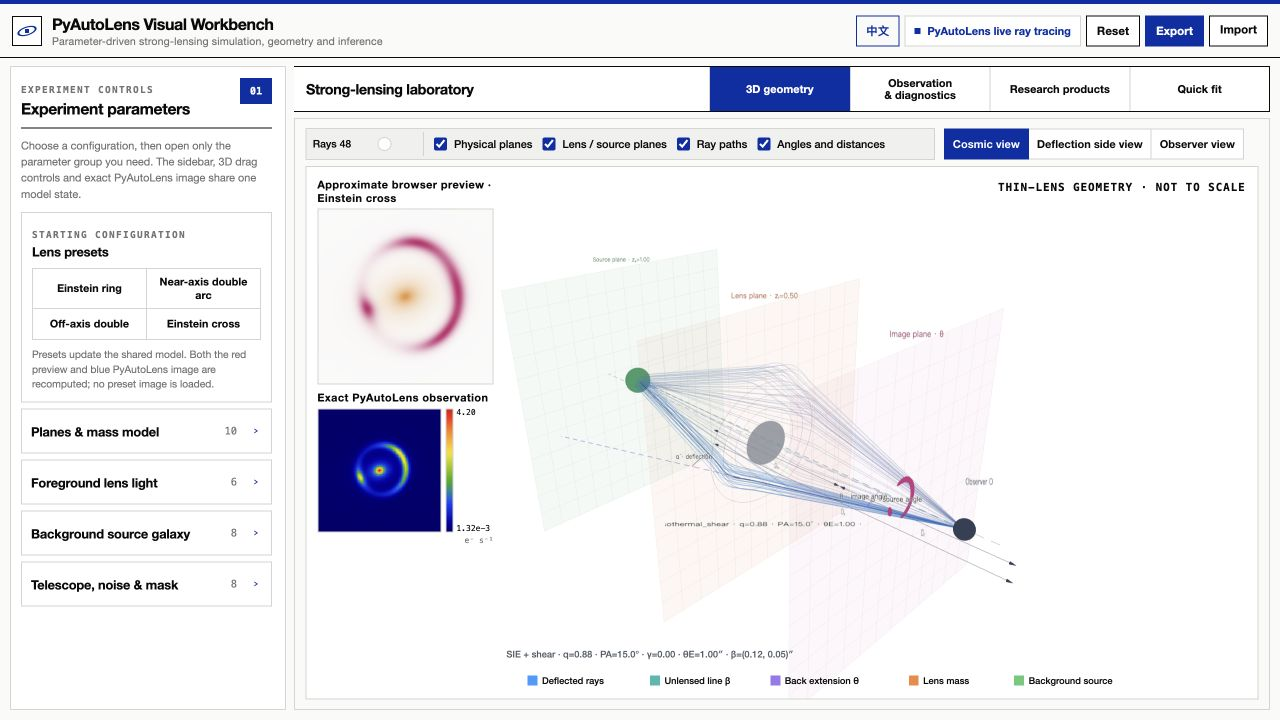
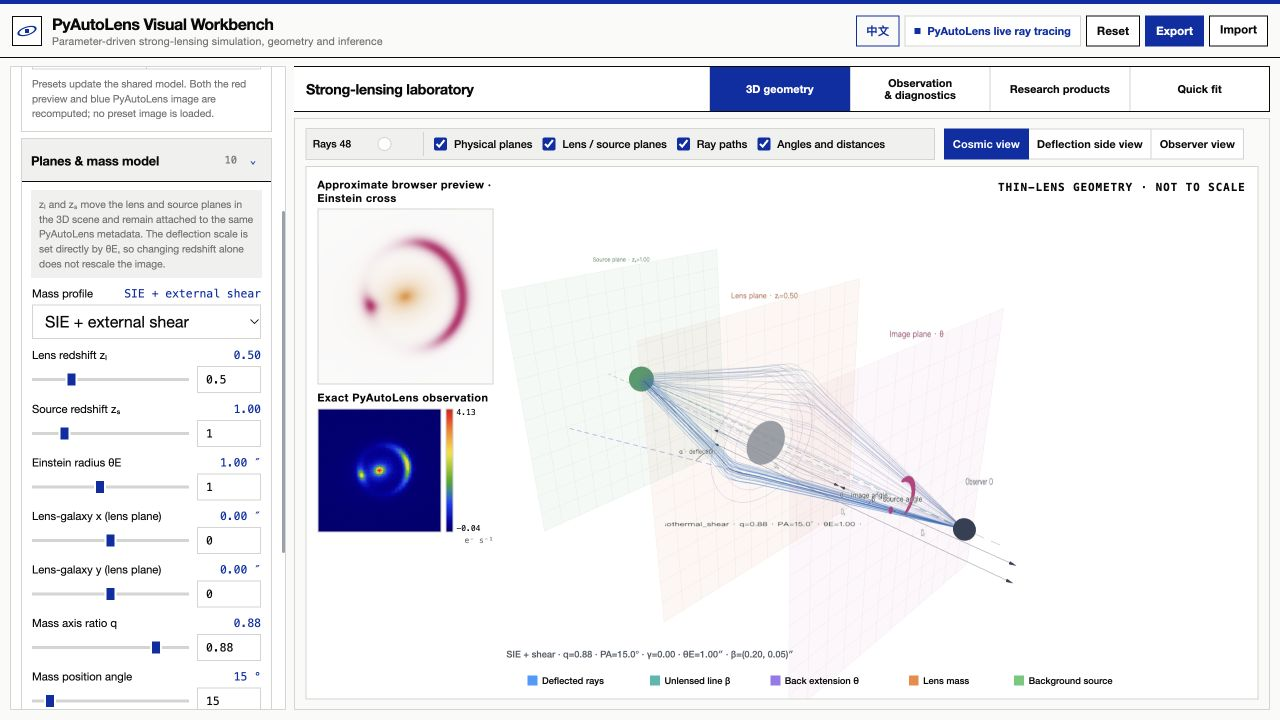
Expand bilingual documentation with all product groups and redshift camera comparisons

diff --git a/README.md b/README.md
@@ -31,6 +31,27 @@ Explore how changing a lens mass distribution, source position, or observing con
 - Compare a responsive browser approximation with a numerical image calculated by local PyAutoLens. The last calculated image remains visible while an update is pending.
 - Start with four configurations: **Einstein ring, near-axis double arcs, off-axis double images, and Einstein cross**. Each preset sets model parameters and triggers a fresh calculation.
 
+
+#### Redshift and camera comparisons
+
+![Deflection side view: zₗ = 0.45, zₛ = 1.97](docs/screenshots/15-geometry-side-redshifts.jpg)
+
+*Deflection side view: zₗ = 0.45, zₛ = 1.97.*
+
+![Observer view of the same configuration](docs/screenshots/16-geometry-observer.jpg)
+
+*Observer view of the same configuration.*
+
+![Cosmic view: zₗ = 0.85, zₛ = 1.97](docs/screenshots/17-geometry-higher-lens-redshift.jpg)
+
+*Cosmic view: zₗ = 0.85, zₛ = 1.97.*
+
+![Side-view comparison: the lens plane moves](docs/screenshots/18-geometry-side-comparison.jpg)
+
+*Side-view comparison: the lens plane moves.*
+
+The home screenshot exposes the actual redshift, Einstein-radius, lens-position and mass-shape sliders. The comparisons hold θE = 1.00″, source position and mass shape fixed. Redshifts move the illustrative planes and are passed to PyAutoLens galaxy metadata; they do not infer a new physical-mass normalization. Ray paths and plane distances are teaching illustrations, not cosmologically scaled distances.
+
 ### 2. Parameter-driven forward simulation
 
 32 controls are organized into four expandable groups:
@@ -65,6 +86,101 @@ Inspect a selected product at a larger scale, switch scientific colourmaps, add 
 | Lens physics | 12 | Convergence κ, potential ψ, x / y deflections and magnitude, shear γ₁ / γ₂ and magnitude, signed magnification μ, Jacobian determinant, tangential / radial eigenvalues |
 
 Browse a standard 12-image panel or the five categories. Products are requested as needed by the current view. Scientific plots include coordinates, numerical colourbars and units, using the installed PyAutoArray colourmap. Calculations also provide critical-curve and caustic overlay data.
+
+
+#### Product gallery
+
+Expand each group to inspect the actual interface screenshots. Together these views cover all five categories, beyond the standard panel.
+
+<details>
+<summary>Standard diagnostics: lower six panels</summary>
+
+![Standard diagnostics: lower six panels](docs/screenshots/05-products-standard-lower.jpg)
+
+Lensed source, source-plane zooms, normalized residuals and χ² complement the first six panels.
+
+</details>
+
+<details>
+<summary>Observation and preprocessing</summary>
+
+![Observation and preprocessing](docs/screenshots/06-products-observation.jpg)
+
+Simulated observation, noise and signal-to-noise describe the mock measurement.
+
+</details>
+
+<details>
+<summary>PSF, mask and masked observation</summary>
+
+![PSF, mask and masked observation](docs/screenshots/07-products-observation-lower.jpg)
+
+The Gaussian PSF represents image blur; the circular mask selects pixels used by the teaching fit.
+
+</details>
+
+<details>
+<summary>Model and components</summary>
+
+![Model and components](docs/screenshots/08-products-model.jpg)
+
+Compare the ideal model with the PSF-convolved image and foreground lens light.
+
+</details>
+
+<details>
+<summary>Source and lens-light decomposition</summary>
+
+![Source and lens-light decomposition](docs/screenshots/09-products-model-lower.jpg)
+
+Inspect convolved and unconvolved lensed source, source-plane brightness, and lens-light-subtracted data.
+
+</details>
+
+<details>
+<summary>Residual and likelihood diagnostics</summary>
+
+![Residual and likelihood diagnostics](docs/screenshots/10-products-residuals.jpg)
+
+Residuals, normalized residuals, per-pixel χ² and residual flux fraction use the same noisy simulated observation. Non-zero residuals here are generated noise, not evidence of a completed research fit.
+
+</details>
+
+<details>
+<summary>Logarithmic display</summary>
+
+![Logarithmic display](docs/screenshots/11-products-log.jpg)
+
+The log model makes faint extended structure easier to inspect; it is a display transform of the same model.
+
+</details>
+
+<details>
+<summary>Lens physics: convergence, potential and deflections</summary>
+
+![Lens physics: convergence, potential and deflections](docs/screenshots/12-products-physics.jpg)
+
+κ traces projected lensing strength; ψ and α describe the potential and deflection field.
+
+</details>
+
+<details>
+<summary>Lens physics: deflection and shear</summary>
+
+![Lens physics: deflection and shear](docs/screenshots/13-products-physics-middle.jpg)
+
+Deflection magnitude and shear components reveal how the lens mapping varies across the field.
+
+</details>
+
+<details>
+<summary>Lens physics: magnification and Jacobian</summary>
+
+![Lens physics: magnification and Jacobian](docs/screenshots/14-products-physics-lower.jpg)
+
+Signed magnification, Jacobian determinant and tangential/radial eigenvalues describe image parity and the local mapping near critical regions.
+
+</details>
 
 ### 5. Export and reproduce experiments
 

diff --git a/README.zh-CN.md b/README.zh-CN.md
@@ -31,6 +31,27 @@
 - 并列显示快速的浏览器近似预览和本机 PyAutoLens 精确数值计算图。后端计算期间保留上一帧，显示计算状态。
 - 四个起始构型：**爱因斯坦环、近轴双弧、离轴双像、爱因斯坦十字**。预设填写模型参数，随后重新计算图像。
 
+
+#### 红移与观察角度对照
+
+![偏折侧视图：zₗ = 0.45，zₛ = 1.97](docs/screenshots/15-geometry-side-redshifts.jpg)
+
+*偏折侧视图：zₗ = 0.45，zₛ = 1.97.*
+
+![同一构型的观测者视角](docs/screenshots/16-geometry-observer.jpg)
+
+*同一构型的观测者视角.*
+
+![宇宙视角：zₗ = 0.85，zₛ = 1.97](docs/screenshots/17-geometry-higher-lens-redshift.jpg)
+
+*宇宙视角：zₗ = 0.85，zₛ = 1.97.*
+
+![侧视对照：透镜平面位置改变](docs/screenshots/18-geometry-side-comparison.jpg)
+
+*侧视对照：透镜平面位置改变.*
+
+首页截图展开了红移、爱因斯坦半径、透镜位置和质量形状等实际滑块。以上对照固定 θE = 1.00″、源位置和质量形状，只改变红移或相机角度。红移移动示意平面并传入 PyAutoLens 星系元数据，不会自动根据物理质量重新归一化偏折尺度。光线路径和平面距离是教学示意，未按宇宙学距离等比例绘制。
+
 ### 2. 参数驱动的正向模拟
 
 32 个参数分为四组，界面按需展开：
@@ -65,6 +86,101 @@
 | 透镜物理量 | 12 | 汇聚度 κ、透镜势 ψ、偏折角 x / y 分量与模长、剪切 γ₁ / γ₂ 与模长、有符号放大率 μ、Jacobian 行列式、切向 / 径向本征值 |
 
 支持标准 12 图组和分类浏览；按当前视图请求产品。科学图有坐标、数值色条和单位，色表取自安装的 PyAutoArray。临界曲线和焦散叠加数据也随计算结果提供。
+
+
+#### 科学产物分组图集
+
+展开下面各组可查看真实操作截图，涵盖全部五个类别，而不仅是标准图组的前六幅。
+
+<details>
+<summary>标准诊断组：下六幅图</summary>
+
+![标准诊断组：下六幅图](docs/screenshots/05-products-standard-lower.jpg)
+
+源光模型、不同缩放的源平面、归一化残差与 χ²，补全标准图组后六幅图。
+
+</details>
+
+<details>
+<summary>观测与预处理</summary>
+
+![观测与预处理](docs/screenshots/06-products-observation.jpg)
+
+合成观测、噪声与信噪比用于检查模拟测量。
+
+</details>
+
+<details>
+<summary>PSF、掩膜与掩膜观测</summary>
+
+![PSF、掩膜与掩膜观测](docs/screenshots/07-products-observation-lower.jpg)
+
+高斯 PSF 表示图像模糊，圆形掩膜选择教学拟合使用的像素。
+
+</details>
+
+<details>
+<summary>模型与分量</summary>
+
+![模型与分量](docs/screenshots/08-products-model.jpg)
+
+比较理想模型、PSF 卷积图像与前景透镜星系光。
+
+</details>
+
+<details>
+<summary>源光与透镜光分解</summary>
+
+![源光与透镜光分解](docs/screenshots/09-products-model-lower.jpg)
+
+检查卷积前后的被透镜化源光、源平面亮度，以及扣除透镜光后的数据。
+
+</details>
+
+<details>
+<summary>残差与似然诊断</summary>
+
+![残差与似然诊断](docs/screenshots/10-products-residuals.jpg)
+
+残差、归一化残差、逐像素 χ² 和残差通量比例来自同一带噪合成观测；这里的非零残差是模拟噪声，并不代表已经完成科研拟合。
+
+</details>
+
+<details>
+<summary>对数显示</summary>
+
+![对数显示](docs/screenshots/11-products-log.jpg)
+
+对数模型便于查看较暗的延展结构，是同一模型的显示变换。
+
+</details>
+
+<details>
+<summary>透镜物理：汇聚度、透镜势与偏折角</summary>
+
+![透镜物理：汇聚度、透镜势与偏折角](docs/screenshots/12-products-physics.jpg)
+
+κ 表示投影透镜强度，ψ 与 α 描述透镜势和偏折场。
+
+</details>
+
+<details>
+<summary>透镜物理：偏折与剪切</summary>
+
+![透镜物理：偏折与剪切](docs/screenshots/13-products-physics-middle.jpg)
+
+偏折模长与剪切分量展示视场中透镜映射的变化。
+
+</details>
+
+<details>
+<summary>透镜物理：放大率与 Jacobian</summary>
+
+![透镜物理：放大率与 Jacobian](docs/screenshots/14-products-physics-lower.jpg)
+
+有符号放大率、Jacobian 行列式及切向 / 径向本征值用于查看像的奇偶性及临界区域附近的局部映射。
+
+</details>
 
 ### 5. 科研数据导出与实验复现
 
